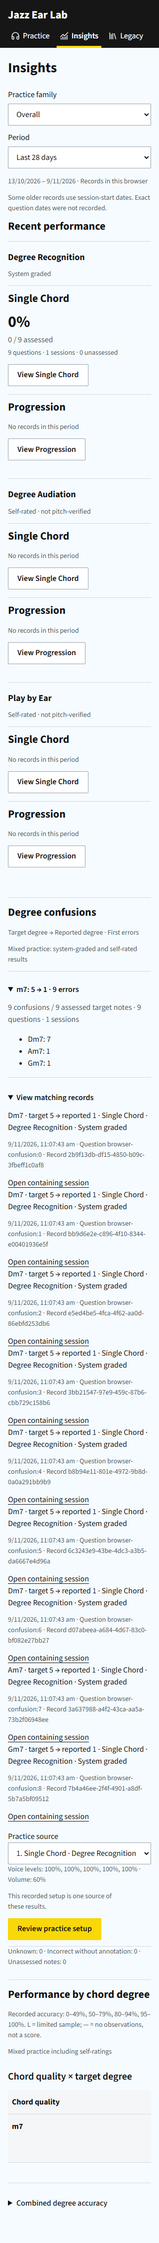
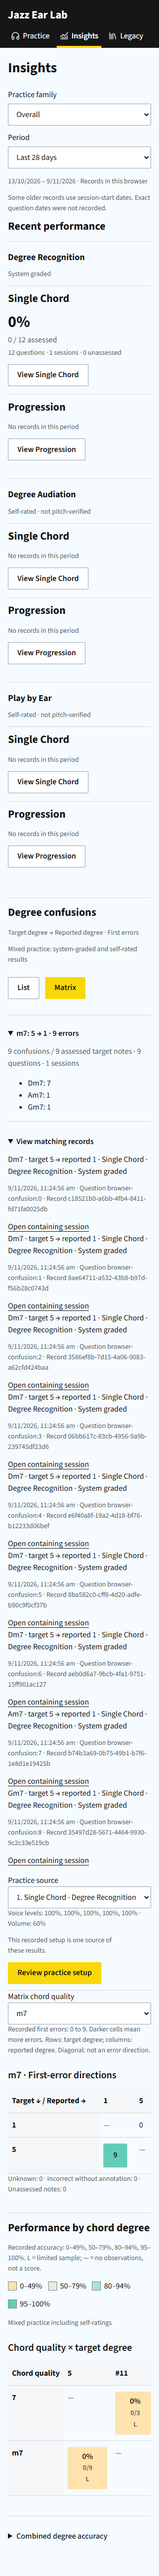
feat(v2): add quality-specific degree confusion matrix (#30)

diff --git a/js/v2/insights-ui.js b/js/v2/insights-ui.js
@@ -1,6 +1,6 @@
 import { insightRecords, insightStats, insightPeriod, insightFilter, insightGroups, insightKeys, insightPriorities, insightConditionLabel, insightTrend, insightKeyComparison, insightEfficiency, insightEligible, insightStratum, insightSetupId } from './insights.js';
 import { exerciseNames, modeForExercise } from './exercise-names.js';
-import { insightConfusions, insightHeatmap } from './insights.js';
+import { insightConfusions, insightHeatmap, insightConfusionMatrix } from './insights.js';
 function performanceSection(records, onSetup) {
     const report = insightHeatmap(records), section = el('section', '', 'insight-performance');
     section.append(el('h2', 'Performance by chord degree'));
@@ -152,6 +152,107 @@ function confusionSection(records, onSetup) {
         section.append(el('p', 'Mixed practice: system-graded and self-rated results', 'insight-scope-note'));
     if (!report.groups.length)
         section.append(el('p', 'No specific first-error directions recorded in this scope.'));
+    const list = el('div', '', 'confusion-list'), matrix = el('div', '', 'confusion-matrix');
+    const rows = new Map();
+    const matrixState = 'jazzEarLab:v2:matrix:' + JSON.stringify([view.family, view.context, view.days, view.key, view.root, view.quality, view.chord, view.degree, view.production, view.condition, view.setup]);
+    let presentation = 'List', quality = report.groups[0]?.quality ?? '', matrixSelection = '';
+    const listPreferences = new Map();
+    try {
+        const saved = JSON.parse(sessionStorage.getItem(matrixState) ?? 'null');
+        if (saved) {
+            presentation = saved.presentation === 'Matrix' ? 'Matrix' : 'List';
+            matrixSelection = typeof saved.selection === 'string' ? saved.selection : '';
+            if (report.groups.some(g => g.quality === saved.quality))
+                quality = saved.quality;
+        }
+    }
+    catch { /* Optional matrix view. */ }
+    const controls = el('div', '', 'insight-tabs');
+    const modeButtons = new Map();
+    const renderMatrix = () => {
+        try {
+            sessionStorage.setItem(matrixState, JSON.stringify({ presentation, quality, selection: matrixSelection }));
+        }
+        catch { /* Optional matrix view. */ }
+        for (const [key, row] of rows) {
+            row.hidden = presentation === 'Matrix' && key !== matrixSelection;
+            row.open = presentation === 'List' ? (listPreferences.get(row) ?? false) : key === matrixSelection;
+        }
+        matrix.hidden = presentation !== 'Matrix';
+        for (const [name, b] of modeButtons)
+            b.setAttribute('aria-pressed', String(name === presentation));
+        matrix.replaceChildren();
+        if (matrix.hidden)
+            return;
+        const label = el('label', 'Matrix chord quality'), select = el('select');
+        select.setAttribute('aria-label', 'Matrix chord quality');
+        for (const q of [...new Set(report.groups.map(g => g.quality))]) {
+            const option = el('option', q);
+            option.value = q;
+            select.append(option);
+        }
+        select.value = quality;
+        select.onchange = () => { quality = select.value; matrixSelection = ''; renderMatrix(); matrix.querySelector('select')?.focus(); };
+        label.append(select);
+        matrix.append(label);
+        const projection = insightConfusionMatrix(report, quality), maximum = Math.max(1, ...projection.groups.map(g => g.count));
+        matrix.append(el('p', `Recorded first errors: 0 to ${maximum}. Darker cells mean more errors. Rows: target degree; columns: reported degree. Diagonal: not an error direction.`, 'insight-scope-note'));
+        const scroll = el('div', '', 'table-scroll');
+        scroll.tabIndex = 0;
+        scroll.setAttribute('role', 'region');
+        scroll.setAttribute('aria-label', 'Degree confusion matrix');
+        const table = el('table'), head = el('thead'), header = el('tr'), corner = el('th', 'Target ↓ / Reported →');
+        corner.scope = 'col';
+        header.append(corner);
+        table.append(el('caption', `${quality} · First-error directions`));
+        for (const degree of projection.degrees) {
+            const th = el('th', degree);
+            th.scope = 'col';
+            header.append(th);
+        }
+        head.append(header);
+        table.append(head);
+        const body = el('tbody');
+        for (const target of projection.degrees) {
+            const tr = el('tr'), th = el('th', target);
+            th.scope = 'row';
+            tr.append(th);
+            for (const reported of projection.degrees) {
+                const td = el('td'), group = projection.groups.find(g => g.target === target && g.reported === reported);
+                if (target === reported) {
+                    td.textContent = '—';
+                    td.setAttribute('aria-label', 'Not an error direction');
+                }
+                else if (!group) {
+                    td.textContent = '0';
+                    td.setAttribute('aria-label', `${quality}: target ${target}, reported ${reported}, 0 recorded errors`);
+                }
+                else {
+                    const button = el('button', String(group.count), 'confusion-cell');
+                    button.type = 'button';
+                    button.dataset.intensity = group.count / maximum > .66 ? 'high' : group.count / maximum > .33 ? 'medium' : 'low';
+                    button.setAttribute('aria-label', `${quality}: target ${target}, reported ${reported}, ${group.count} errors`);
+                    button.onclick = () => { matrixSelection = JSON.stringify([quality, target, reported]); renderMatrix(); rows.get(matrixSelection)?.querySelector('summary')?.focus(); };
+                    td.append(button);
+                }
+                tr.append(td);
+            }
+            body.append(tr);
+        }
+        table.append(body);
+        scroll.append(table);
+        matrix.append(scroll);
+    };
+    if (report.groups.length) {
+        for (const mode of ['List', 'Matrix']) {
+            const b = el('button', mode, 'secondary');
+            b.type = 'button';
+            b.onclick = () => { presentation = mode; renderMatrix(); };
+            modeButtons.set(mode, b);
+            controls.append(b);
+        }
+        section.append(controls, matrix);
+    }
     for (const group of report.groups) {
         const label = `${group.quality}: ${group.target} → ${group.reported}`;
         const rememberFocus = () => { try {
@@ -199,11 +300,16 @@ function confusionSection(records, onSetup) {
             row.open = sessionStorage.getItem(stateKey) === 'open';
         }
         catch { /* Optional disclosure state. */ }
-        row.ontoggle = () => { try {
-            sessionStorage.setItem(stateKey, row.open ? 'open' : 'closed');
-        }
-        catch { /* Optional disclosure state. */ } };
-        section.append(row);
+        listPreferences.set(row, row.open);
+        row.ontoggle = () => { if (presentation === 'List') {
+            listPreferences.set(row, row.open);
+            try {
+                sessionStorage.setItem(stateKey, row.open ? 'open' : 'closed');
+            }
+            catch { /* Optional disclosure state. */ }
+        } };
+        rows.set(JSON.stringify([group.quality, group.target, group.reported]), row);
+        list.append(row);
         try {
             if (sessionStorage.getItem('jazzEarLab:v2:confusionReturn') === label) {
                 sessionStorage.removeItem('jazzEarLab:v2:confusionReturn');
@@ -212,6 +318,8 @@ function confusionSection(records, onSetup) {
         }
         catch { /* Optional return focus. */ }
     }
+    section.append(list);
+    renderMatrix();
     section.append(el('p', `Unknown: ${report.unknown} · Incorrect without annotation: ${report.unspecified} · Unassessed notes: ${report.unassessed}`, 'insight-scope-note'));
     return section;
 }

diff --git a/src/v2/insights-ui.ts b/src/v2/insights-ui.ts
@@ -1,7 +1,7 @@
 import {insightRecords,insightStats,insightPeriod,insightFilter,insightGroups,insightKeys,insightPriorities,insightConditionLabel,insightTrend,insightKeyComparison,insightEfficiency,insightEligible,insightStratum,insightSetupId,type InsightRecord,type InsightFamily,type InsightRun,type InsightFilters} from './insights.js';
 import {exerciseNames,modeForExercise} from './exercise-names.js';
 import type {Attempt,Session} from './model.js';
-import {insightConfusions,insightHeatmap} from './insights.js';
+import {insightConfusions,insightHeatmap,insightConfusionMatrix} from './insights.js';
 
 function performanceSection(records:InsightRecord[],onSetup?: (record:InsightRecord,label:string,filters:InsightFilters)=>void){
  const report=insightHeatmap(records),section=el('section','','insight-performance');
@@ -64,6 +64,38 @@ function confusionSection(records:InsightRecord[],onSetup?: (record:InsightRecor
  section.append(el('h2','Degree confusions'),el('p','Target degree → Reported degree · First errors','insight-scope-note'));
  if(view.family==='Overall')section.append(el('p','Mixed practice: system-graded and self-rated results','insight-scope-note'));
  if(!report.groups.length)section.append(el('p','No specific first-error directions recorded in this scope.'));
+ const list=el('div','','confusion-list'),matrix=el('div','','confusion-matrix');
+ const rows=new Map<string,HTMLDetailsElement>();
+ const matrixState='jazzEarLab:v2:matrix:'+JSON.stringify([view.family,view.context,view.days,view.key,view.root,view.quality,view.chord,view.degree,view.production,view.condition,view.setup]);
+ let presentation='List',quality=report.groups[0]?.quality??'',matrixSelection='';
+ const listPreferences=new Map<HTMLDetailsElement,boolean>();
+ try{const saved=JSON.parse(sessionStorage.getItem(matrixState)??'null');if(saved){presentation=saved.presentation==='Matrix'?'Matrix':'List';matrixSelection=typeof saved.selection==='string'?saved.selection:'';if(report.groups.some(g=>g.quality===saved.quality))quality=saved.quality;}}catch{/* Optional matrix view. */}
+ const controls=el('div','','insight-tabs');
+ const modeButtons=new Map<string,HTMLButtonElement>();
+ const renderMatrix=()=>{
+  try{sessionStorage.setItem(matrixState,JSON.stringify({presentation,quality,selection:matrixSelection}));}catch{/* Optional matrix view. */}
+  for(const [key,row]of rows){row.hidden=presentation==='Matrix'&&key!==matrixSelection;row.open=presentation==='List'?(listPreferences.get(row)??false):key===matrixSelection;}
+  matrix.hidden=presentation!=='Matrix';for(const [name,b]of modeButtons)b.setAttribute('aria-pressed',String(name===presentation));
+  matrix.replaceChildren();if(matrix.hidden)return;
+  const label=el('label','Matrix chord quality'),select=el('select');select.setAttribute('aria-label','Matrix chord quality');
+  for(const q of [...new Set(report.groups.map(g=>g.quality))]){const option=el('option',q);option.value=q;select.append(option);}select.value=quality;
+  select.onchange=()=>{quality=select.value;matrixSelection='';renderMatrix();matrix.querySelector('select')?.focus();};label.append(select);matrix.append(label);
+  const projection=insightConfusionMatrix(report,quality),maximum=Math.max(1,...projection.groups.map(g=>g.count));
+  matrix.append(el('p',`Recorded first errors: 0 to ${maximum}. Darker cells mean more errors. Rows: target degree; columns: reported degree. Diagonal: not an error direction.`,'insight-scope-note'));
+  const scroll=el('div','','table-scroll');scroll.tabIndex=0;scroll.setAttribute('role','region');scroll.setAttribute('aria-label','Degree confusion matrix');
+  const table=el('table'),head=el('thead'),header=el('tr'),corner=el('th','Target ↓ / Reported →');corner.scope='col';header.append(corner);table.append(el('caption',`${quality} · First-error directions`));
+  for(const degree of projection.degrees){const th=el('th',degree);th.scope='col';header.append(th);}head.append(header);table.append(head);const body=el('tbody');
+  for(const target of projection.degrees){const tr=el('tr'),th=el('th',target);th.scope='row';tr.append(th);
+   for(const reported of projection.degrees){const td=el('td'),group=projection.groups.find(g=>g.target===target&&g.reported===reported);
+    if(target===reported){td.textContent='—';td.setAttribute('aria-label','Not an error direction');}
+    else if(!group){td.textContent='0';td.setAttribute('aria-label',`${quality}: target ${target}, reported ${reported}, 0 recorded errors`);}
+    else{const button=el('button',String(group.count),'confusion-cell');button.type='button';button.dataset.intensity=group.count/maximum>.66?'high':group.count/maximum>.33?'medium':'low';button.setAttribute('aria-label',`${quality}: target ${target}, reported ${reported}, ${group.count} errors`);
+     button.onclick=()=>{matrixSelection=JSON.stringify([quality,target,reported]);renderMatrix();rows.get(matrixSelection)?.querySelector('summary')?.focus();};td.append(button);}
+    tr.append(td);
+   }body.append(tr);
+  }table.append(body);scroll.append(table);matrix.append(scroll);
+ };
+ if(report.groups.length){for(const mode of ['List','Matrix']){const b=el('button',mode,'secondary');b.type='button';b.onclick=()=>{presentation=mode;renderMatrix();};modeButtons.set(mode,b);controls.append(b);}section.append(controls,matrix);}
  for(const group of report.groups){
   const label=`${group.quality}: ${group.target} → ${group.reported}`;
   const rememberFocus=()=>{try{sessionStorage.setItem('jazzEarLab:v2:confusionReturn',label);}catch{/* Optional return focus. */}};
@@ -89,10 +121,12 @@ function confusionSection(records:InsightRecord[],onSetup?: (record:InsightRecor
   }else row.append(el('p','Original practice setup unavailable; review the records instead.'));
   const stateKey='jazzEarLab:v2:confusion:'+JSON.stringify([view.family,view.context,view.days,view.key,view.root,view.chord,label]);
   try{row.open=sessionStorage.getItem(stateKey)==='open';}catch{/* Optional disclosure state. */}
-  row.ontoggle=()=>{try{sessionStorage.setItem(stateKey,row.open?'open':'closed');}catch{/* Optional disclosure state. */}};
-  section.append(row);
+  listPreferences.set(row,row.open);
+  row.ontoggle=()=>{if(presentation==='List'){listPreferences.set(row,row.open);try{sessionStorage.setItem(stateKey,row.open?'open':'closed');}catch{/* Optional disclosure state. */}}};
+  rows.set(JSON.stringify([group.quality,group.target,group.reported]),row);list.append(row);
   try{if(sessionStorage.getItem('jazzEarLab:v2:confusionReturn')===label){sessionStorage.removeItem('jazzEarLab:v2:confusionReturn');requestAnimationFrame(()=>row.querySelector('summary')?.focus());}}catch{/* Optional return focus. */}
  }
+ section.append(list);renderMatrix();
  section.append(el('p',`Unknown: ${report.unknown} · Incorrect without annotation: ${report.unspecified} · Unassessed notes: ${report.unassessed}`,'insight-scope-note'));
  return section;
 }

diff --git a/js/v2/insights.js b/js/v2/insights.js
@@ -1,5 +1,5 @@
 import { metrics, targetsFor, editableConfig, validate as validateSingle } from './model.js';
-import { pitchClass, parseChord } from '../jazz/theory.js';
+import { pitchClass, parseChord, degrees } from '../jazz/theory.js';
 import { exerciseNames } from './exercise-names.js';
 import { validate as validateProgression } from './progression.js';
 export const insightKeys = 'C C# D Eb E F F# G Ab A Bb B'.split(' ');
@@ -310,3 +310,10 @@ export function insightConfusions(records) {
     return { groups, unknown, unspecified, unassessed: insightStats(unique).unassessed };
 }
 function latestAssessed(records) { return records.reduce((latest, r) => r.a.firstCorrect !== null ? Math.max(latest, r.time ?? 0) : latest, 0); }
+export function insightConfusionMatrix(report, quality) {
+    const groups = report.groups.filter(g => g.quality === quality && g.target !== g.reported);
+    return { groups, degrees: [...new Set(groups.flatMap(g => [g.target, g.reported]))].sort((a, b) => {
+            const ai = degrees.indexOf(a), bi = degrees.indexOf(b);
+            return (ai < 0 ? Infinity : ai) - (bi < 0 ? Infinity : bi) || a.localeCompare(b);
+        }) };
+}

diff --git a/src/v2/insights.ts b/src/v2/insights.ts
@@ -1,5 +1,5 @@
 import {metrics, targetsFor, editableConfig, validate as validateSingle, type Attempt, type Session, type Config} from './model.js';
-import {pitchClass,parseChord} from '../jazz/theory.js';
+import {pitchClass,parseChord,degrees} from '../jazz/theory.js';
 import {exerciseNames} from './exercise-names.js';
 import {validate as validateProgression,type ProgressionConfig,type ProgressionQuestion} from './progression.js';
 export type InsightFamily = 'Degree Recognition' | 'Degree Audiation' | 'Play by Ear';
@@ -214,3 +214,11 @@ export function insightConfusions(records:InsightRecord[]) {
 }
 
 function latestAssessed(records:InsightRecord[]){return records.reduce((latest,r)=>r.a.firstCorrect!==null?Math.max(latest,r.time??0):latest,0);}
+
+export function insightConfusionMatrix(report:ReturnType<typeof insightConfusions>,quality:string){
+ const groups=report.groups.filter(g=>g.quality===quality&&g.target!==g.reported);
+ return {groups,degrees:[...new Set(groups.flatMap(g=>[g.target,g.reported]))].sort((a,b)=>{
+  const ai=degrees.indexOf(a),bi=degrees.indexOf(b);
+  return (ai<0?Infinity:ai)-(bi<0?Infinity:bi)||a.localeCompare(b);
+ })};
+}

diff --git a/jazz-ear-lab-v2/v2.css b/jazz-ear-lab-v2/v2.css
@@ -496,3 +496,17 @@ input[type="number"], output, .session-count, .assessment-count, .unassessed,
 .heatmap-swatch[data-band=mid]{background:#e4efd9;}
 .heatmap-swatch[data-band=high]{background:#a8e4d4;}
 .heatmap-swatch[data-band=top]{background:#62cdb7;}
+.confusion-list>details{border-bottom:1px solid #d4d9df;padding:12px 0;}
+.confusion-matrix .table-scroll{max-width:100%;overflow-x:auto;}
+.confusion-matrix table{width:max-content;min-width:min(100%,640px);}
+.confusion-matrix select{max-width:100%;}
+.confusion-matrix .confusion-cell{min-width:48px;min-height:48px;color:#111;font-variant-numeric:tabular-nums;}
+.confusion-cell[data-intensity=high]{background:#62cdb7;}
+.confusion-cell[data-intensity=medium]{background:#a8e4d4;}
+.confusion-cell[data-intensity=low]{background:#e0f5ee;}
+@media(max-width:600px){
+ .insight-confusions{display:flex;flex-direction:column;}
+ .insight-confusions .confusion-list{order:1;}
+ .insight-confusions .confusion-matrix{order:2;}
+ .insight-confusions>p:last-child{order:3;}
+}

diff --git a/.impeccable/review/v2-confusions/README.md b/.impeccable/review/v2-confusions/README.md
@@ -23,3 +23,27 @@ Independent standards/spec reviews found source ambiguity, absent source labels
 in mixed evidence, root spelling grouping and insufficient evidence identity.
 These were corrected. Added unit/browser assertions cover the new totals and
 workflow; broader integration remains ticket #32.
+
+## Matrix extension (#30)
+
+Added an explicit List/Matrix presentation. Matrix is quality-specific, uses
+the existing first-error groups by reference, and opens the same evidence and
+practice action as the list. Unknown/unspecified/unassessed are scope totals
+outside its cells. Diagonals are not correctness values. Matrix selection and
+quality survive practice return independently of list disclosure preferences.
+Mobile starts list-first; explicitly opened matrix/evidence are reordered
+with the evidence/list ahead of the grid and bounded table scrolling.
+
+Build and 177 Node tests passed. Four Insights browser suites passed after the
+extension. New checks cover keyboard opening from a closed disclosure,
+quality switching, sparse/diagonal cells, active Root filtering, matrix/list
+count agreement, selected practice return and no page overflow. Reporting
+tests include duplicates, missing qualities, empty population, deliberate
+#11/b5 spellings and filtered counts. Screenshots now include the matrix.
+
+Standards/spec review identified simultaneous duplicate presentations, matrix
+actions overwriting list preferences, mobile ordering and missing test cases.
+The mode behavior, separate preferences and mobile ordering were corrected;
+focused tests were expanded and rerun. Exhaustive six-mode, large-matrix,
+physical-device, screen-reader and 200% zoom checks remain #32. The prior full
+V2 Roots timeout is not represented as fixed by this reporting-only change.
